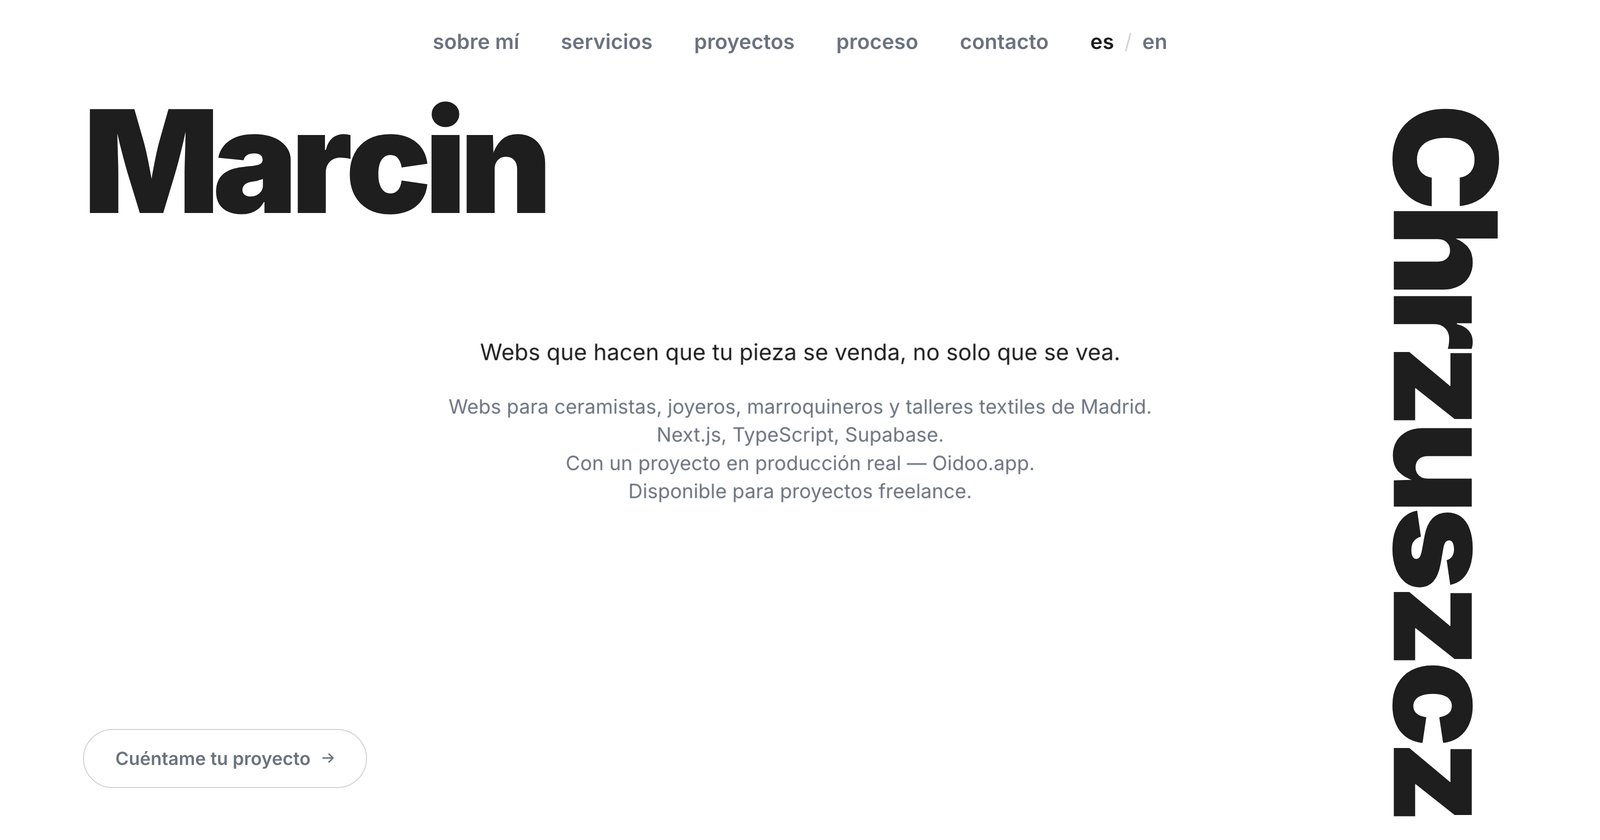
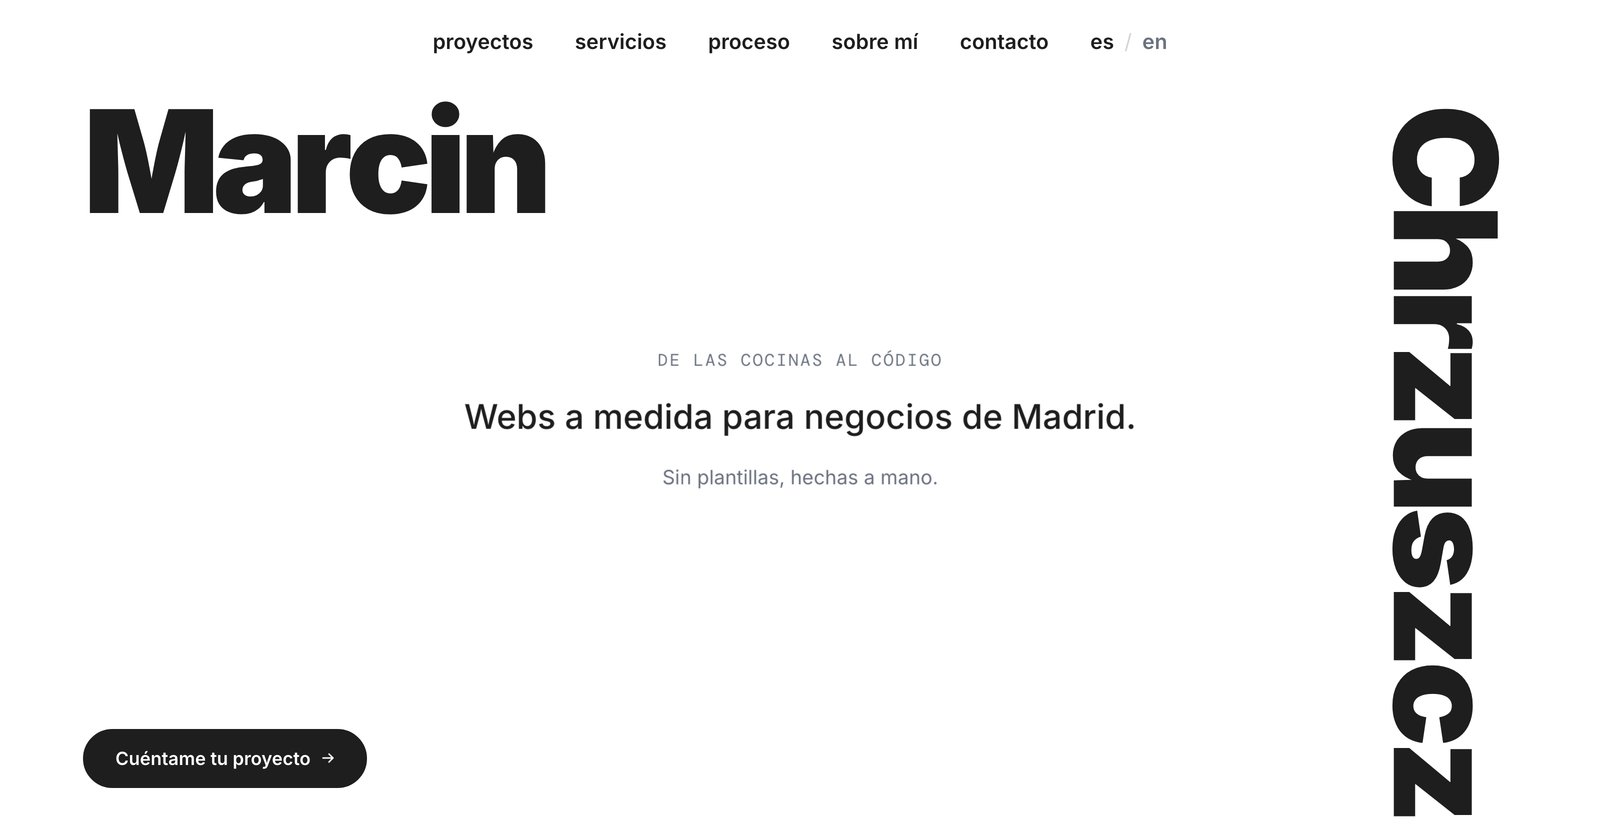
Match title, meta description and link preview to the new hero
- Title: "Marcin Chrzuszcz — Webs a medida para negocios de Madrid"
- Description mirrors the hero copy; "Desde 700€" stays as the hook
- og.jpg reshot at 1600x840 from the current build: it still showed a
  hero from several rewrites ago (ceramistas/joyeros copy, grey button)

diff --git a/src/app/layout.tsx b/src/app/layout.tsx
@@ -55,9 +55,12 @@ const jsonLd = {
 
 // Stated once — it was three copies of the same two strings, and they had
 // already drifted apart once.
-const TITLE = "Marcin Chrzuszcz — Webs para oficios y negocios de Madrid";
+// Mirrors the hero (headline, subline, eyebrow) so a search result or a
+// shared link says what the page says. The price stays here as a reason to
+// click; the hero leaves it to Services.
+const TITLE = "Marcin Chrzuszcz — Webs a medida para negocios de Madrid";
 const DESCRIPTION =
-  "Webs y CMS a medida para talleres, tiendas y autónomos de Madrid: artesanía, hostelería, servicios. De las cocinas al código — sin plantillas. Desde 700€.";
+  "Webs a medida para negocios de Madrid, sin plantillas y hechas a mano. De las cocinas al código. Desde 700€.";
 
 export const metadata: Metadata = {
   metadataBase: new URL(SITE_URL),
